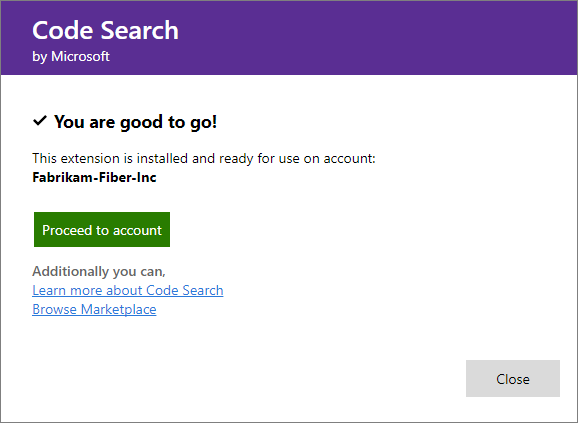
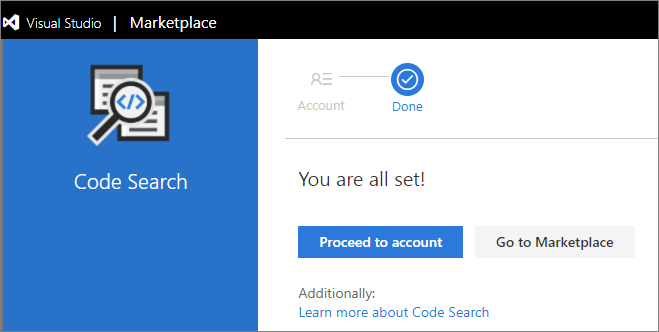
new images

diff --git a/docs/marketplace/install-vsts-extension.md b/docs/marketplace/install-vsts-extension.md
@@ -35,12 +35,12 @@ To add new features and capabilities to your Visual Studio Team Services (VSTS) 
 
 0.	Find and select the extension that you want to install. For this Quickstart, you can choose [**Code Search**](https://marketplace.visualstudio.com/items?itemName=ms.vss-code-search).
 
-0.	Click *Install*.
+0.	Click *Get it free*.
 
 	![Install free extension](_img/get-vsts-extensions/install-free-extension.png)
 
 
-0.  Select your VSTS account and click *Continue* to install this extension. 
+0.  Now you're on the acquisition page, select your VSTS account and click *Install* to install this extension. 
 
 	![Select VSTS account for this extension](_img/get-vsts-extensions/account.png)
 
@@ -48,9 +48,7 @@ To add new features and capabilities to your Visual Studio Team Services (VSTS) 
 
 	*	[Why can't I install this extension?](./faq-extensions.md#no-permissions) 
 
-0.	Finish your installation by clicking *Confirm*.
-
-0. You can now go to your VSTS account to use your extension. Also, tell your team about this extension, so they can start using its capabilities too.
+0. Your extension is now installed! You can now go to your VSTS account to use your extension. Also, tell your team about this extension, so they can start using its capabilities too.
 
 	![Extension installed](_img/get-vsts-extensions/go-to-account.png)
 
